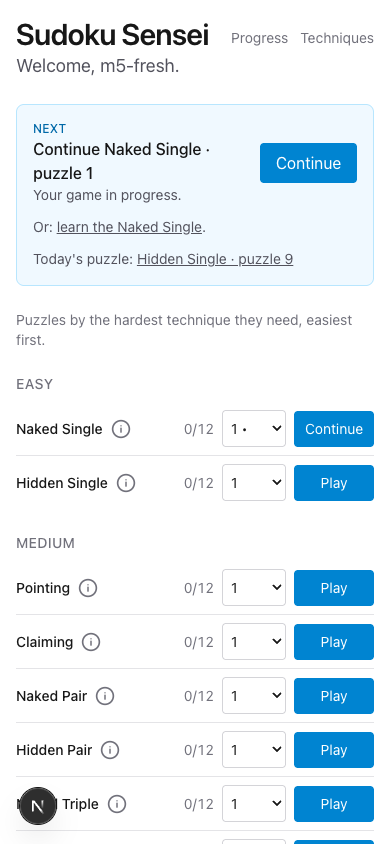
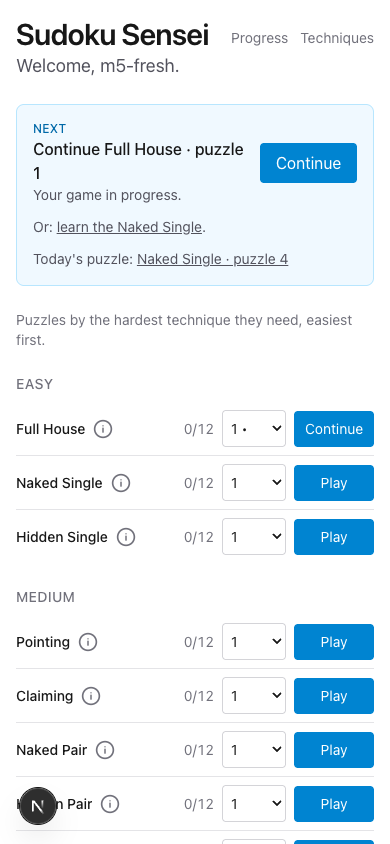
A home row and puzzles for every technique (Full House from nearly complete grids); pick up a save that lands just after a board opens

diff --git a/app/page.tsx b/app/page.tsx
@@ -47,25 +47,31 @@ export default async function Home() {
       )}
       <p className="text-sm text-zinc-500">Puzzles by the hardest technique they need, easiest first.</p>
       {[1, 2, 3, 0].map((tier) => {
-        // Tier 0 collects the puzzles beyond the catalog.
-        const rows = [...groups].filter(([d]) => (TECHNIQUES[d]?.tier ?? 0) === tier);
+        // Every technique gets a row, puzzles or not; tier 0 is the puzzles beyond the catalog.
+        const rows = tier
+          ? TECHNIQUES.flatMap((t, sort) => (t.tier === tier ? [{ t, list: groups.get(sort) ?? [] }] : []))
+          : groups.has(-1) ? [{ t: null, list: groups.get(-1)! }] : [];
         if (!rows.length) return null;
         return (
           <section key={tier} className="flex flex-col gap-2">
             <h2 className="text-sm font-medium tracking-wide text-zinc-500 uppercase">{tier ? TIERS[tier] : "Expert"}</h2>
             <ul className="divide-y divide-zinc-200 dark:divide-zinc-800">
-              {rows.map(([difficulty, list]) => {
-                const t = TECHNIQUES[difficulty];
-                return (
-                  <li key={difficulty} className="grid grid-cols-[minmax(0,1fr)_auto_4rem_5rem] items-center gap-2 py-2 sm:grid-cols-[minmax(0,1fr)_auto_5rem_6rem]">
-                    <span className="flex min-w-0 items-center gap-1">
-                      <span className="truncate text-sm font-medium sm:text-base">{t ? t.name : "Beyond the lessons"}</span>
-                      <InfoLink href={t ? `/techniques/${t.slug}` : "/techniques"} label={t ? `About ${t.name}` : "About the techniques"} />
-                    </span>
+              {rows.map(({ t, list }) => (
+                <li key={t?.slug ?? "expert"} className="grid grid-cols-[minmax(0,1fr)_auto_4rem_5rem] items-center gap-2 py-2 sm:grid-cols-[minmax(0,1fr)_auto_5rem_6rem]">
+                  <span className="flex min-w-0 items-center gap-1">
+                    <span className="truncate text-sm font-medium sm:text-base">{t ? t.name : "Beyond the lessons"}</span>
+                    <InfoLink href={t ? `/techniques/${t.slug}` : "/techniques"} label={t ? `About ${t.name}` : "About the techniques"} />
+                  </span>
+                  {list.length ? (
                     <PuzzlePicker label={t ? t.name : "Expert"} puzzles={list.map((p) => ({ id: p.id, status: status.get(p.id) }))} />
-                  </li>
-                );
-              })}
+                  ) : (
+                    <>
+                      <span className="col-span-2 text-right text-sm text-zinc-500">No puzzles yet</span>
+                      <Link href={`/techniques/${t!.slug}#lesson`} className="rounded bg-sky-600 py-2 text-center text-sm text-white">Lesson</Link>
+                    </>
+                  )}
+                </li>
+              ))}
             </ul>
           </section>
         );

diff --git a/app/play/[id]/Board.tsx b/app/play/[id]/Board.tsx
@@ -85,24 +85,33 @@ export default function Board({ puzzleId, givens, solution, saved }: {
     };
   }, [puzzleId]);
 
-  // Coming back to this tab: pick up moves made on another device since.
+  // Pick up moves saved elsewhere since this board was loaded: from another
+  // device when this tab comes back into view, and once shortly after opening, in
+  // case a save sent as the last page closed (a reload straight after a move)
+  // landed just after this one was read.
+  const refresh = useRef(async () => {});
+  useEffect(() => { refresh.current = async () => {
+    if (document.visibilityState !== "visible" || status !== "saved") return;
+    const g = await load(puzzleId).catch(() => null);
+    if (!g || g.updatedAt <= synced.current.updatedAt) return;
+    // A move made while that request was out wins over what the server had.
+    if (latest.current.board !== synced.current.board || latest.current.hints !== synced.current.hints) return;
+    const board = fromSaved(g);
+    synced.current = { board, hints: g.hints, updatedAt: g.updatedAt };
+    setHistory({ past: [], present: board, future: [] });
+    setHints(g.hints);
+  }; });
   useEffect(() => {
-    async function refresh() {
-      if (document.visibilityState !== "visible" || status !== "saved") return;
-      const g = await load(puzzleId).catch(() => null);
-      if (!g || g.updatedAt <= synced.current.updatedAt) return;
-      const board = fromSaved(g);
-      synced.current = { board, hints: g.hints, updatedAt: g.updatedAt };
-      setHistory({ past: [], present: board, future: [] });
-      setHints(g.hints);
-    }
-    document.addEventListener("visibilitychange", refresh);
-    window.addEventListener("focus", refresh);
+    const onShow = () => refresh.current();
+    const once = setTimeout(onShow, 1500);
+    document.addEventListener("visibilitychange", onShow);
+    window.addEventListener("focus", onShow);
     return () => {
-      document.removeEventListener("visibilitychange", refresh);
-      window.removeEventListener("focus", refresh);
+      clearTimeout(once);
+      document.removeEventListener("visibilitychange", onShow);
+      window.removeEventListener("focus", onShow);
     };
-  }, [puzzleId, status]);
+  }, []);
 
   const commit = useCallback((next: Snapshot) => {
     setHistory((h) => ({ past: [...h.past, h.present], present: next, future: [] }));

diff --git a/lib/sudoku/solver.test.ts b/lib/sudoku/solver.test.ts
@@ -111,9 +111,9 @@ describe("grading", () => {
   test("Inkala's puzzle is beyond the catalog", () => {
     expect(grade(parse("800000000003600000070090200050007000000045700000100030001000068008500010090000400")).solved).toBe(false);
   });
-  test("the corpus exercises every technique", () => {
-    const used = new Set(corpus.flatMap((g) => grade(parse(g)).techniques));
-    expect(TECHNIQUES.map((t) => t.slug).filter((t) => !used.has(t))).toEqual([]);
+  test("every technique is the hardest step of at least one puzzle, so each has puzzles to practise", () => {
+    const hardest = new Set(corpus.map((g) => grade(parse(g))).filter((r) => r.solved).map((r) => TECHNIQUES[r.difficulty].slug));
+    expect(TECHNIQUES.map((t) => t.slug).filter((t) => !hardest.has(t))).toEqual([]);
   });
   test("every step on every corpus puzzle agrees with its solution", () => {
     for (const givens of corpus) {

diff --git a/scripts/generate.ts b/scripts/generate.ts
@@ -63,8 +63,11 @@ const today = new Date().toISOString().slice(0, 10);
 let tried = 0, added = 0;
 while (Date.now() < deadline && [...count.values()].some((n) => n < per)) {
   tried++;
-  // Mostly minimal puzzles, which run harder; some stopped early, which run easier.
-  const puzzle = carve(randomSolution(), Math.random() < 0.7 ? 17 : 26 + Math.floor(Math.random() * 10));
+  // Mostly minimal puzzles, which run harder; some stopped early, which run easier;
+  // a few nearly complete, the only way to get puzzles that need nothing past a Full House.
+  const roll = Math.random();
+  const floor = roll < 0.6 ? 17 : roll < 0.9 ? 26 + Math.floor(Math.random() * 10) : 50 + Math.floor(Math.random() * 26);
+  const puzzle = carve(randomSolution(), floor);
   const key = format(puzzle);
   if (have.has(key)) continue;
   const r = grade(puzzle);

diff --git a/docs/PLAN.md b/docs/PLAN.md
@@ -189,10 +189,12 @@ check. A handful of puzzles in the `puzzles` table, loaded from
 grader, the generator script, drill capture. Fixtures per technique. Fill `puzzles`
 and `drills` with a first batch across difficulties.
 *Done when* every stored puzzle grades, and the grader agrees with known ratings on
-a set of reference puzzles. Result: 204 puzzles, 203 within the catalog. Every step
-on each one is checked against its solution, and every technique is used somewhere.
-Hidden Quad and Jellyfish are rarely the hardest step (1 and 2 puzzles), and Full
-House never is, since a Naked Single always comes first.
+a set of reference puzzles. Result: 231 puzzles, 230 within the catalog. Every step
+on each one is checked against its solution, and every technique is the hardest
+step of at least one (a test), so each has a row of puzzles on the home page: 12
+each, except Hidden Quad at 2, which a simpler subset nearly always pre-empts. Full
+House puzzles are nearly complete grids, which the generator makes by stopping
+early.
 
 **Saved games (done, ahead of M3).** One game per player per puzzle in `games`,
 saved a moment after each move and resumed on any device. A tab picks up moves
